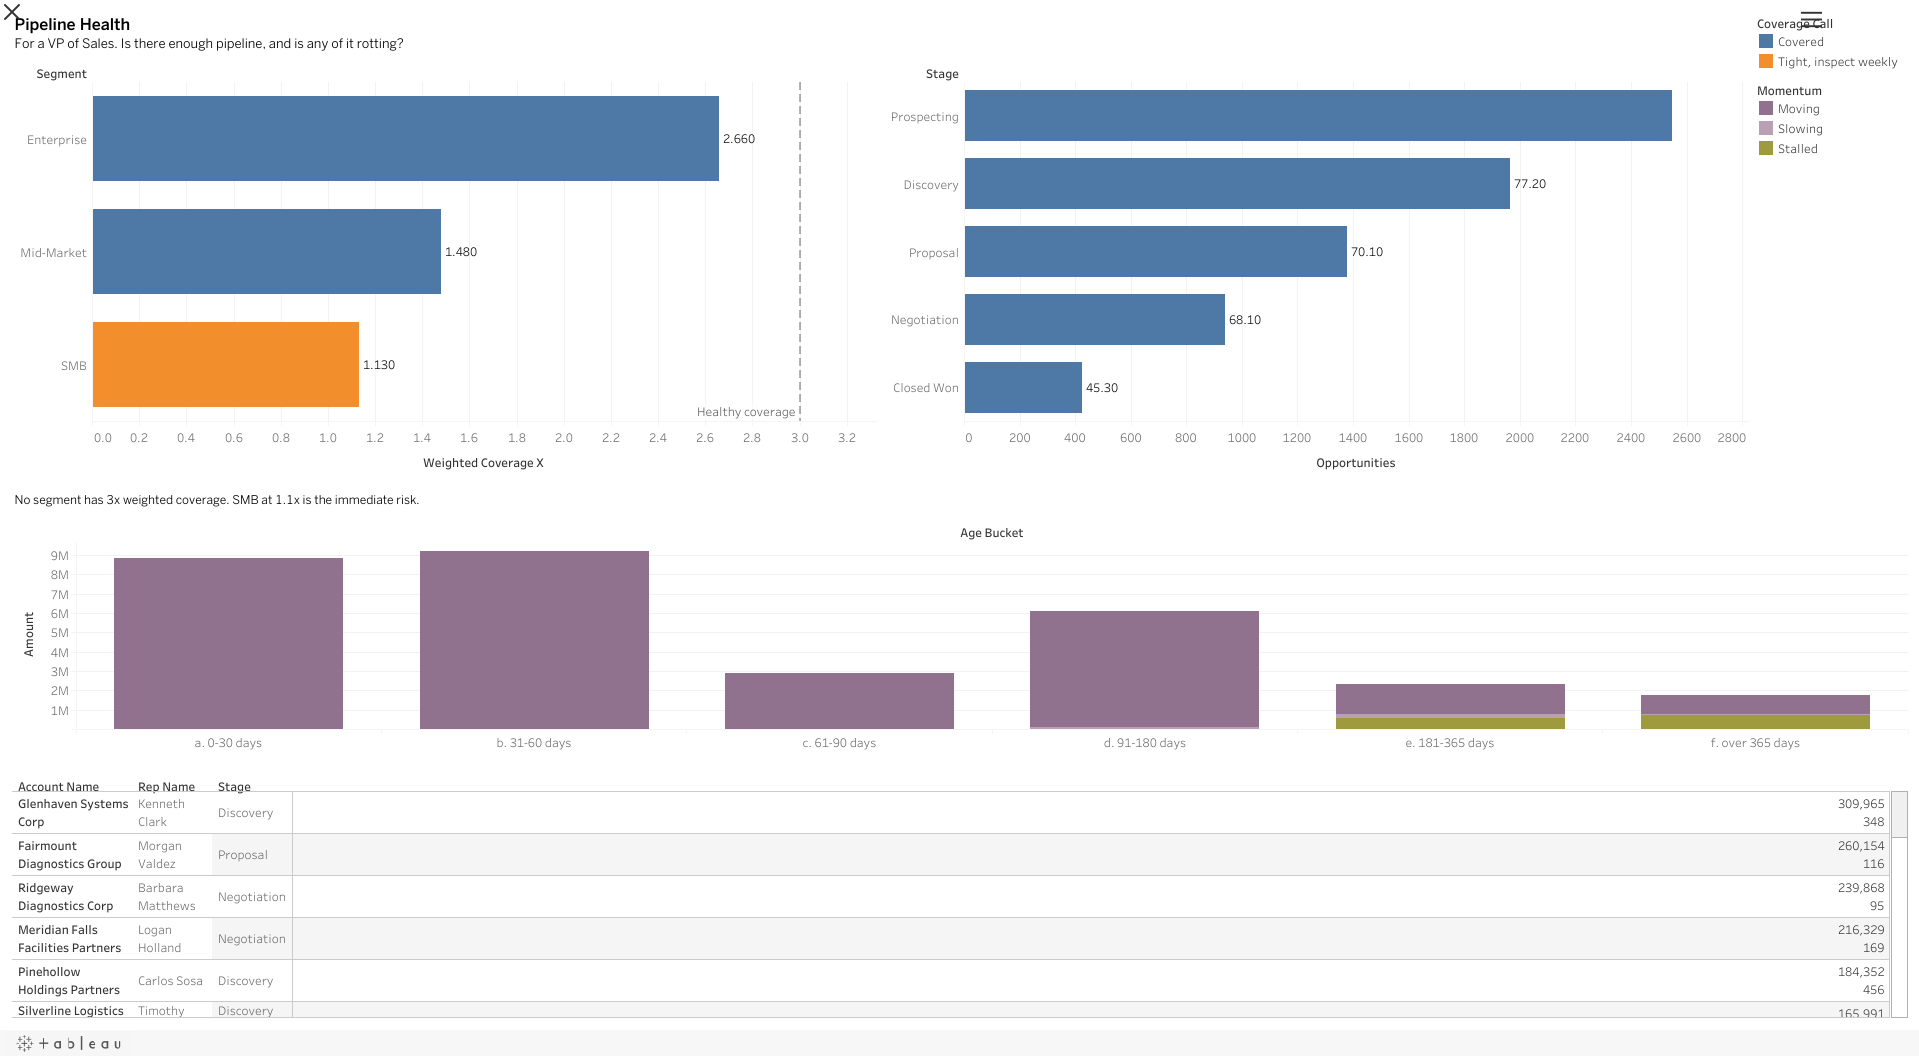
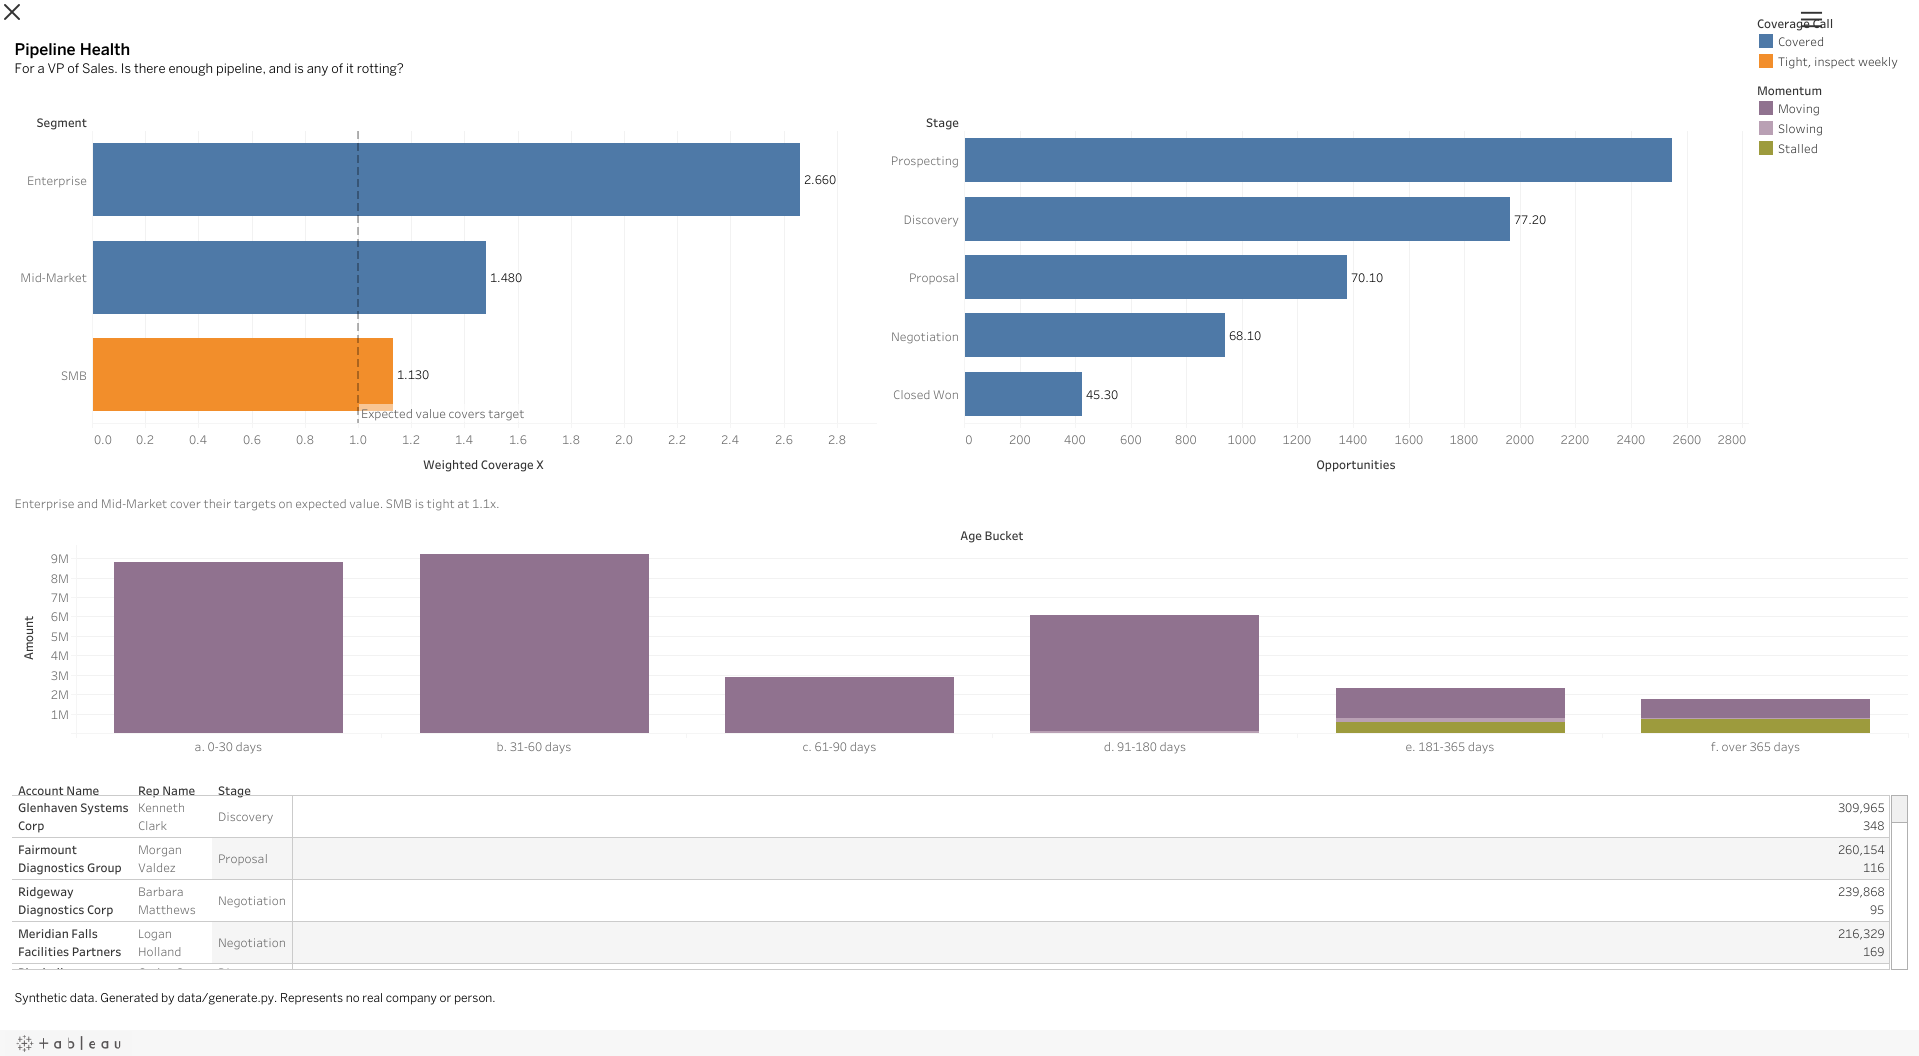
Recapture 01 and 03 from the republished workbooks
Both now carry the synthetic data disclosure, so the screenshots
committed earlier were the versions without it. Recaptured signed
out from the published views through the same render endpoint and
overwritten in place. All four dashboards now carry the line,
verified by cropping the footer of each rather than by eye.

Dashboard 01 also had its coverage sheet fixed. The reference line
moved from 3.0 "Healthy coverage" to 1.0 "Expected value covers
target", and the caption changed from "No segment has 3x weighted
coverage" to "Enterprise and Mid-Market cover their targets on
expected value. SMB is tight at 1.1x". That removes the
contradiction between the line and the bar colors, which come from
coverage_call, and a line at 1.0 carries the same meaning for
every segment so it does not reintroduce the cross segment
ranking the README rules out.

Dashboard 03 got the disclosure and nothing else. Its caption
still reads "Inbound at 28x on 1,000+" against 736 leads in the
extract, which is now the only factual error left on any of the
four. Sheet 3.4 is still absent, 3.3 still plots won only, and the
02 and 04 items are unchanged.

The deviations list is updated to separate what is fixed from what
is open rather than being rewritten wholesale, so the record of
what was wrong survives.

diff --git a/bi/README.md b/bi/README.md
@@ -6,8 +6,8 @@ export script that feeds them.
 > **All data is synthetic. Generated by `data/generate.py`.
 > Represents no real company or person.** Every published
 > dashboard must carry this line as a visible text object, not
-> just here in the README. Dashboards 01 and 03 currently do not.
-> See the deviations list below.
+> just here in the README. All four carry it, verified against the
+> published views rather than against Desktop.
 
 ---
 
@@ -41,39 +41,47 @@ spec the workbooks are built from.
 Checked against the published views, not against Desktop. These
 are blockers of varying weight and none of them is fixed yet.
 
-**Dashboards 01 and 03 have no synthetic data disclosure.** The
-rule at the top of `DASHBOARD_SPECS.md` says every dashboard
-carries the line as a text object, bottom left, and calls it not
-optional. 02 and 04 carry it. 01 and 03 have blank space where it
-should be, and both are public right now. This is a disclosure
-defect rather than a design nit, so it is first in the list and
-should be first fixed. Both screenshots in `bi/screenshots/` will
-need recapturing once it is, because they currently show the
-version without the line.
+**Fixed since the first pass.** The disclosure is now on all four
+dashboards; 01 and 03 were republished with the text object added
+and the screenshots in `bi/screenshots/` were recaptured from the
+republished views. Dashboard 01's coverage sheet no longer
+contradicts itself either: the reference line moved from 3.0
+"Healthy coverage" to 1.0 "Expected value covers target", and the
+caption now reads "Enterprise and Mid-Market cover their targets
+on expected value. SMB is tight at 1.1x", which agrees with the
+bar colors that come from `coverage_call`. A line at 1.0 also
+means the same thing for every segment, expected value against
+that segment's own target, so it does not reintroduce the cross
+segment ranking that the section below rules out.
 
-**Dashboard 01 plots weighted coverage against a raw coverage
-threshold.** Sheet 1.1 draws one reference line at 3.0 labelled
-"Healthy coverage" across bars showing `weighted_coverage_x`, and
-captions it "No segment has 3x weighted coverage". The 3.0 rule of
-thumb belongs to raw coverage, and on `raw_coverage_x` every
-segment clears it: SMB 3.03, Mid-Market 3.94, Enterprise 6.80. The
-weighted threshold the spec names is 1.20, from `coverage_call` in
-query 04. Against the right threshold, Mid-Market at 1.48 and
-Enterprise at 2.66 are covered and only SMB at 1.13 is not, which
-is exactly what the bar colors on that same sheet say, pulled from
-`coverage_call`. So the sheet contradicts itself: the colors mark
-two segments healthy while the line and the caption imply none is.
-The caption is comparing a number to a threshold from a different
-definition, which is the same error as dividing flagged dollars by
-open pipeline.
+Still open, in rough order of weight:
 
-**Dashboard 01 ranks segments against a shared line.** "What is
-deliberately not on these dashboards" below says coverage is shown
-per segment against its own threshold with no cross segment
-ranking, because Enterprise deals sit open two and a half times
-longer so the same health accumulates to a higher multiple. The
-published sheet puts all three segments on one axis against one
-line, which is the comparison that section rules out.
+**Dashboard 03 caption states a number the extract contradicts.**
+The caption reads "The scalable win is Inbound at 28x on 1,000+".
+Inbound returns 28.28x, which is right, on **736 leads**, which is
+not 1,000 or more. No source clears 1,000 leads except Outbound at
+1,798, and Outbound returns 2.38x. The argument survives the
+correction, since 736 against Referral's 249 is still the scarcity
+point, but the figure as printed is wrong and it is the only
+factual error left on any of the four.
+
+**Dashboard 03 is missing sheet 3.4 entirely.** The volume bars
+are not on the dashboard. The spec asks for them directly under
+3.1 and says the adjacency between Referral ranked first on return
+and last on volume **is the argument**. The caption makes that
+argument in prose instead, which is weaker and is where the wrong
+number got in.
+
+**Dashboard 03 sheet 3.3 shows won only.** The spec asks for won
+and lost side by side, because lost deals die fast and that
+contrast is the point, plus a reference band from `median_days` to
+`p75_days`. The published sheet plots a single won median per
+source with no band. The lost medians are in the extract already,
+40 to 55 days against 75 to 115 for won.
+
+**Dashboard 03 sheet 3.1 has no conditional color**, and **3.2 is
+on linear axes** where the spec asks log on both. The breakeven
+reference line is present and correct.
 
 **Dashboard 01 is missing sheets 1.1 and 1.2 as specified.** There
 is no single large coverage number; the segment bar chart stands
@@ -92,34 +100,7 @@ pink and olive ramp. The buckets and the stacking are right.
 
 **Dashboard 01 has layout defects.** The deal table is clipped
 mid row at the bottom edge, and a floating container's close
-button renders as a stray X over the first letter of the title.
-
-**Dashboard 03 caption states a number the extract contradicts.**
-The caption reads "The scalable win is Inbound at 28x on 1,000+".
-Inbound returns 28.28x, which is right, on **736 leads**, which is
-not 1,000 or more. No source clears 1,000 leads except Outbound at
-1,798, and Outbound returns 2.38x. The argument the caption is
-making survives the correction, since 736 against Referral's 249
-is still the scarcity point the spec cares about, but the figure
-as printed is wrong.
-
-**Dashboard 03 is missing sheet 3.4 entirely.** The volume bars
-are not on the dashboard. The spec asks for them directly under
-3.1 and says the adjacency between Referral ranked first on return
-and last on volume **is the argument**. The caption makes that
-argument in prose instead, which is weaker and is where the wrong
-number got in.
-
-**Dashboard 03 sheet 3.3 shows won only.** The spec asks for won
-and lost side by side, because lost deals die fast and that
-contrast is the point, plus a reference band from `median_days` to
-`p75_days`. The published sheet plots a single won median per
-source with no band. The lost medians are in the extract already,
-40 to 55 days against 75 to 115 for won.
-
-**Dashboard 03 sheet 3.1 has no conditional color**, and **3.2 is
-on linear axes** where the spec asks for log on both. The
-breakeven reference line is present and correct.
+button renders as a stray X above the title.
 
 **Dashboard 02 sheet 2.1 drops the empty `c. 80 to 99%` band.**
 The spec names this one: the absence is a finding, and Tableau
